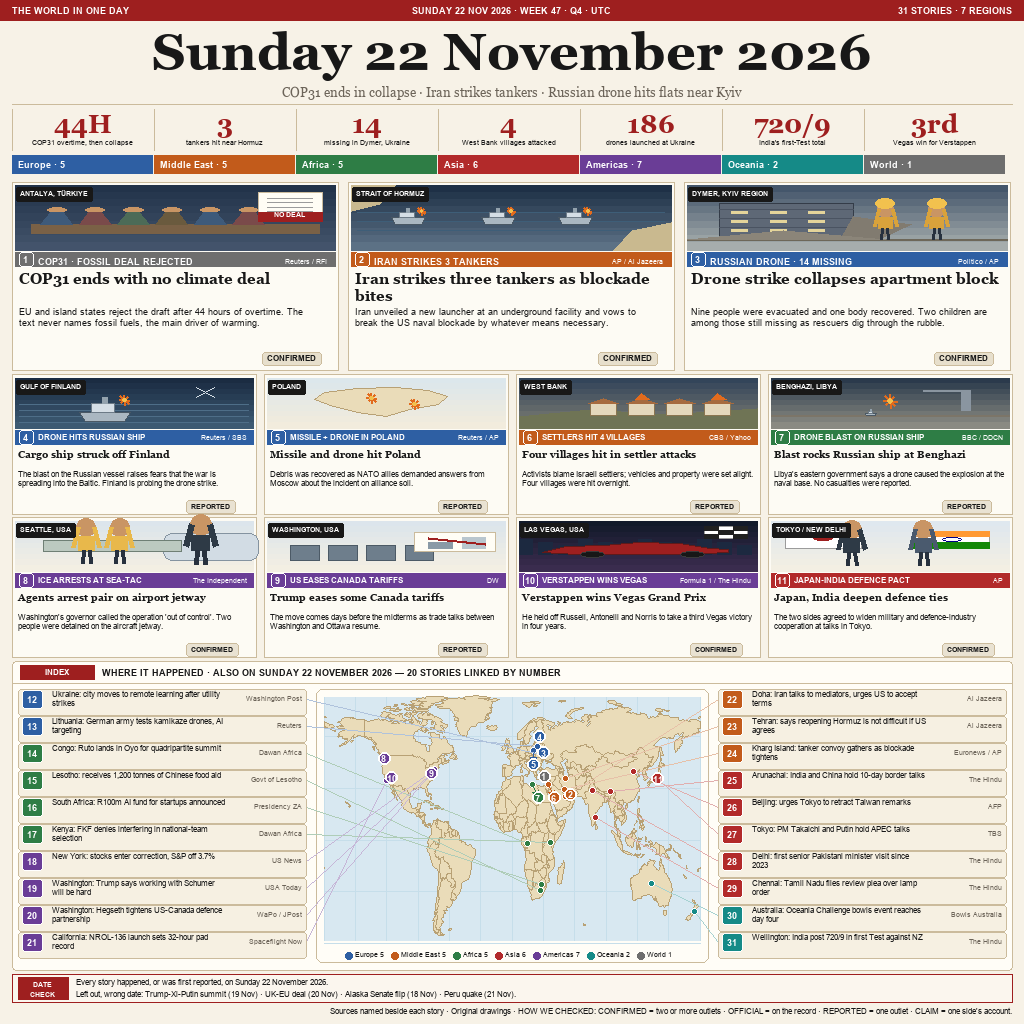
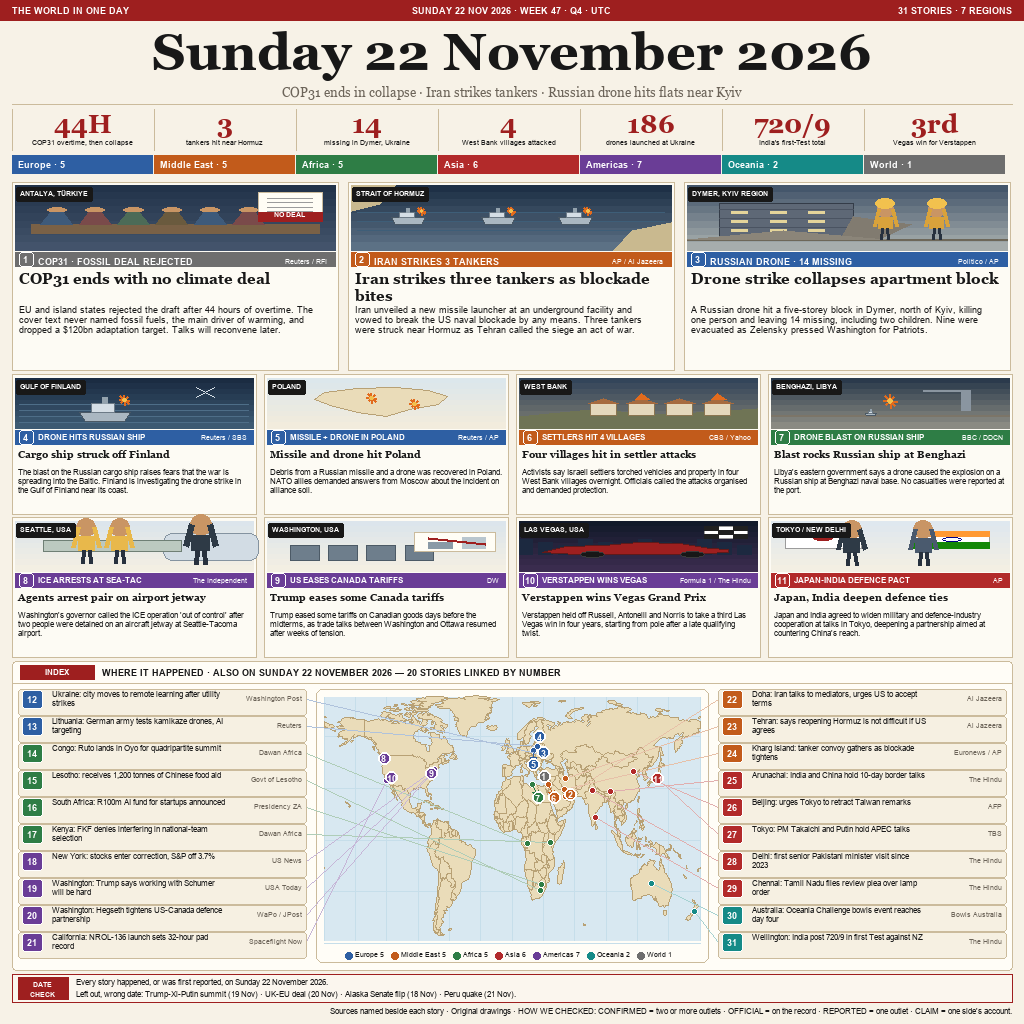
Remove status chips from cards

diff --git a/stories.py b/stories.py
@@ -21,68 +21,68 @@ STORIES = [
     # ---- 3 lead stories ----------------------------------------------------
     dict(n=1, region="World", place="ANTALYA, TÜRKIYE", lat=36.90, lon=30.71,
          kicker="COP31 · FOSSIL DEAL REJECTED", headline="COP31 ends with no climate deal",
-         body="EU and island states reject the draft after 44 hours of overtime. The text never names fossil fuels, the main driver of warming.",
+         body="EU and island states rejected the draft after 44 hours of overtime. The cover text never named fossil fuels, the main driver of warming, and dropped a $120bn adaptation target. Talks will reconvene later.",
          source="Reuters / RFI", status="CONFIRMED", size="main", scene="cop",
          brief="Antalya: COP31 collapses as EU rejects fossil-free draft"),
 
     dict(n=2, region="Middle East", place="STRAIT OF HORMUZ", lat=26.57, lon=56.25,
          kicker="IRAN STRIKES 3 TANKERS", headline="Iran strikes three tankers as blockade bites",
-         body="Iran unveiled a new launcher at an underground facility and vows to break the US naval blockade by whatever means necessary.",
+         body="Iran unveiled a new missile launcher at an underground facility and vowed to break the US naval blockade by any means. Three tankers were struck near Hormuz as Tehran called the siege an act of war.",
          source="AP / Al Jazeera", status="CONFIRMED", size="main", scene="hormuz",
          brief="Hormuz: Iran hits 3 tankers, vows to break US blockade"),
 
     dict(n=3, region="Europe", place="DYMER, KYIV REGION", lat=50.75, lon=30.50,
          kicker="RUSSIAN DRONE · 14 MISSING", headline="Drone strike collapses apartment block",
-         body="Nine people were evacuated and one body recovered. Two children are among those still missing as rescuers dig through the rubble.",
+         body="A Russian drone hit a five-storey block in Dymer, north of Kyiv, killing one person and leaving 14 missing, including two children. Nine were evacuated as Zelensky pressed Washington for Patriots.",
          source="Politico / AP", status="CONFIRMED", size="main", scene="dymer",
          brief="Dymer: 14 missing after drone hits apartment block"),
 
     # ---- 8 illustrated stories ---------------------------------------------
     dict(n=4, region="Europe", place="GULF OF FINLAND", lat=59.80, lon=26.50,
          kicker="DRONE HITS RUSSIAN SHIP", headline="Cargo ship struck off Finland",
-         body="The blast on the Russian vessel raises fears that the war is spreading into the Baltic. Finland is probing the drone strike.",
+         body="The blast on the Russian cargo ship raises fears that the war is spreading into the Baltic. Finland is investigating the drone strike in the Gulf of Finland near its coast.",
          source="Reuters / SBS", status="REPORTED", size="small", scene="shipdrone",
          brief="Finland: Russian cargo ship hit by drones off the coast"),
 
     dict(n=5, region="Europe", place="POLAND", lat=52.20, lon=21.00,
          kicker="MISSILE + DRONE IN POLAND", headline="Missile and drone hit Poland",
-         body="Debris was recovered as NATO allies demanded answers from Moscow about the incident on alliance soil.",
+         body="Debris from a Russian missile and a drone was recovered in Poland. NATO allies demanded answers from Moscow about the incident on alliance soil.",
          source="Reuters / AP", status="REPORTED", size="small", scene="poland",
          brief="Poland: Russian missile and drone found on NATO soil"),
 
     dict(n=6, region="Middle East", place="WEST BANK", lat=32.00, lon=35.30,
          kicker="SETTLERS HIT 4 VILLAGES", headline="Four villages hit in settler attacks",
-         body="Activists blame Israeli settlers; vehicles and property were set alight. Four villages were hit overnight.",
+         body="Activists say Israeli settlers torched vehicles and property in four West Bank villages overnight. Officials called the attacks organised and demanded protection.",
          source="CBS / Yahoo", status="REPORTED", size="small", scene="westbank",
          brief="West Bank: four villages targeted in suspected settler attacks"),
 
     dict(n=7, region="Africa", place="BENGHAZI, LIBYA", lat=32.12, lon=20.07,
          kicker="DRONE BLAST ON RUSSIAN SHIP", headline="Blast rocks Russian ship at Benghazi",
-         body="Libya's eastern government says a drone caused the explosion at the naval base. No casualties were reported.",
+         body="Libya's eastern government says a drone caused the explosion on a Russian ship at Benghazi naval base. No casualties were reported at the port.",
          source="BBC / DDCN", status="REPORTED", size="small", scene="benghazi",
          brief="Benghazi: explosion on Russian ship blamed on drone"),
 
     dict(n=8, region="Americas", place="SEATTLE, USA", lat=47.45, lon=-122.31,
          kicker="ICE ARRESTS AT SEA-TAC", headline="Agents arrest pair on airport jetway",
-         body="Washington's governor called the operation 'out of control'. Two people were detained on the aircraft jetway.",
+         body="Washington's governor called the ICE operation 'out of control' after two people were detained on an aircraft jetway at Seattle-Tacoma airport.",
          source="The Independent", status="CONFIRMED", size="small", scene="ice",
          brief="Seattle: ICE arrests on jetway draw governor's condemnation"),
 
     dict(n=9, region="Americas", place="WASHINGTON, USA", lat=38.90, lon=-77.04,
          kicker="US EASES CANADA TARIFFS", headline="Trump eases some Canada tariffs",
-         body="The move comes days before the midterms as trade talks between Washington and Ottawa resume.",
+         body="Trump eased some tariffs on Canadian goods days before the midterms, as trade talks between Washington and Ottawa resumed after weeks of tension.",
          source="DW", status="REPORTED", size="small", scene="tariff",
          brief="Washington: Trump softens some tariffs on Canada"),
 
     dict(n=10, region="Americas", place="LAS VEGAS, USA", lat=36.17, lon=-115.14,
          kicker="VERSTAPPEN WINS VEGAS", headline="Verstappen wins Vegas Grand Prix",
-         body="He held off Russell, Antonelli and Norris to take a third Vegas victory in four years.",
+         body="Verstappen held off Russell, Antonelli and Norris to take a third Las Vegas win in four years, starting from pole after a late qualifying twist.",
          source="Formula 1 / The Hindu", status="CONFIRMED", size="small", scene="f1",
          brief="Las Vegas: Verstappen wins third Vegas GP in four years"),
 
     dict(n=11, region="Asia", place="TOKYO / NEW DELHI", lat=35.68, lon=139.69,
          kicker="JAPAN-INDIA DEFENCE PACT", headline="Japan, India deepen defence ties",
-         body="The two sides agreed to widen military and defence-industry cooperation at talks in Tokyo.",
+         body="Japan and India agreed to widen military and defence-industry cooperation at talks in Tokyo, deepening a partnership aimed at countering China's reach.",
          source="AP", status="CONFIRMED", size="small", scene="flags_jp_in",
          brief="Tokyo: Japan and India agree wider defence cooperation"),
 

diff --git a/render.py b/render.py
@@ -581,9 +581,8 @@ def build(out="entry.png"):
         head = font(15, True, True)
         for j, line in enumerate(wrap(s["headline"], head, 326 - 14, d)[:2]):
             put(d, (x + 7, y + 88 + j * 17), line, head, INK)
-        for j, line in enumerate(wrap(s["body"], font(9), 300, d)[:3]):
-            put(d, (x + 7, y + 124 + j * 11), line, font(9), INK)
-        chip(d, x + 250, y + 170, s["status"])
+        for j, line in enumerate(wrap(s["body"], font(9), 300, d)[:4]):
+            put(d, (x + 7, y + 122 + j * 10), line, font(9), INK)
 
     for i, s in enumerate([x for x in STORIES if x["size"] == "small"][:8]):
         row, col = divmod(i, 4)
@@ -599,9 +598,8 @@ def build(out="entry.png"):
         head = font(10, True, True)
         for j, line in enumerate(wrap(s["headline"], head, 244 - 12, d)[:2]):
             put(d, (x + 6, y + 74 + j * 10), line, head, INK)
-        for j, line in enumerate(wrap(s["body"], font(7.5), 232, d)[:2]):
-            put(d, (x + 6, y + 96 + j * 9), line, font(7.5), INK)
-        chip(d, x + 174, y + 126, s["status"], fill="#E9E2D2", fsize=7)
+        for j, line in enumerate(wrap(s["body"], font(7.5), 232, d)[:3]):
+            put(d, (x + 6, y + 94 + j * 9), line, font(7.5), INK)
 
     d.rounded_rectangle([12, PANEL_Y0, 1012, PANEL_Y1], radius=4,
                         fill=rgb(PANEL), outline=rgb(LINE), width=1)
